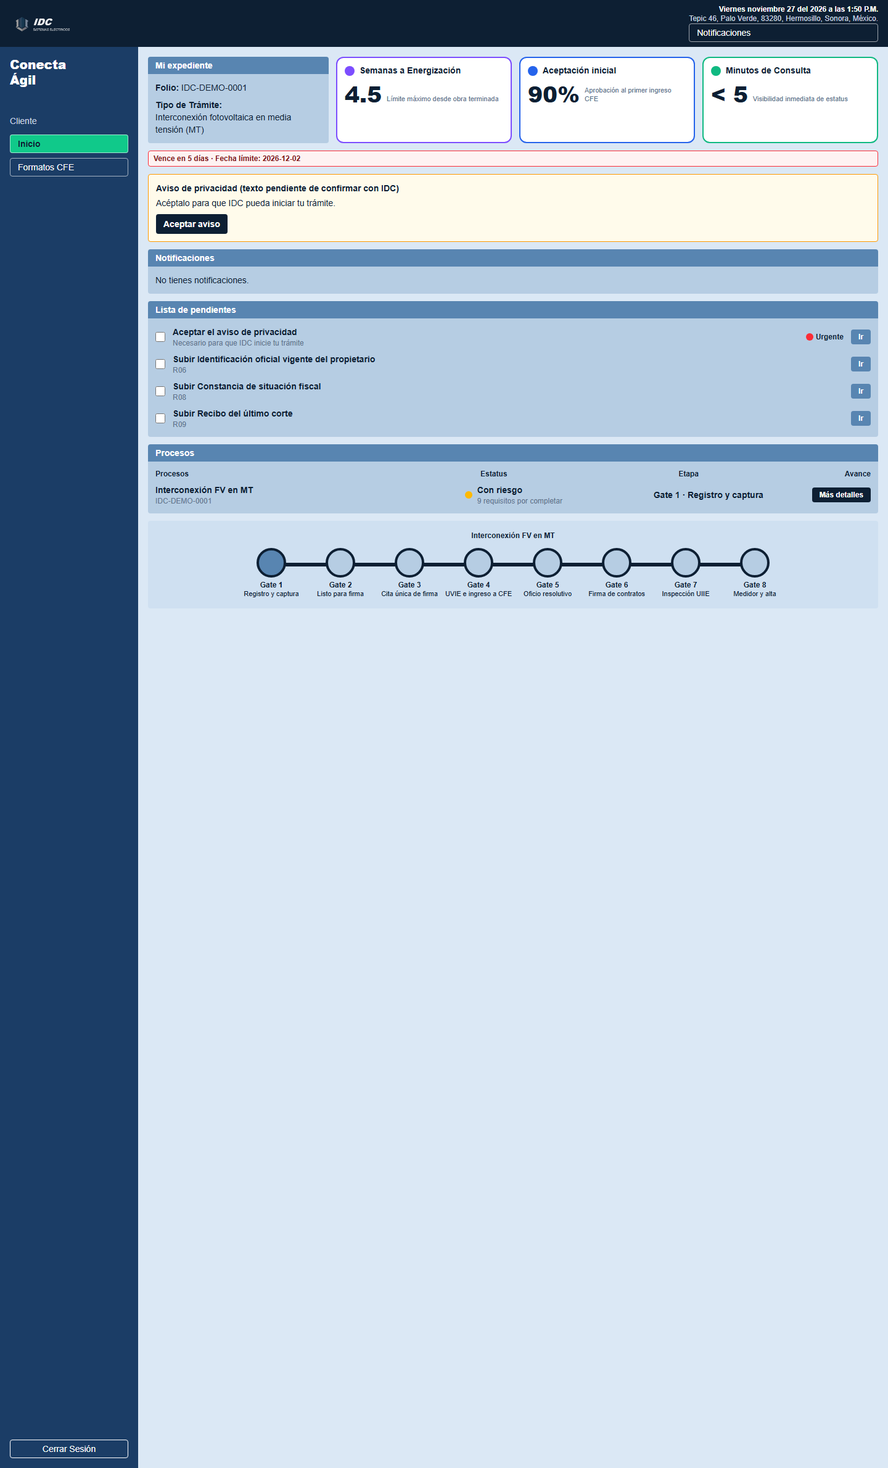
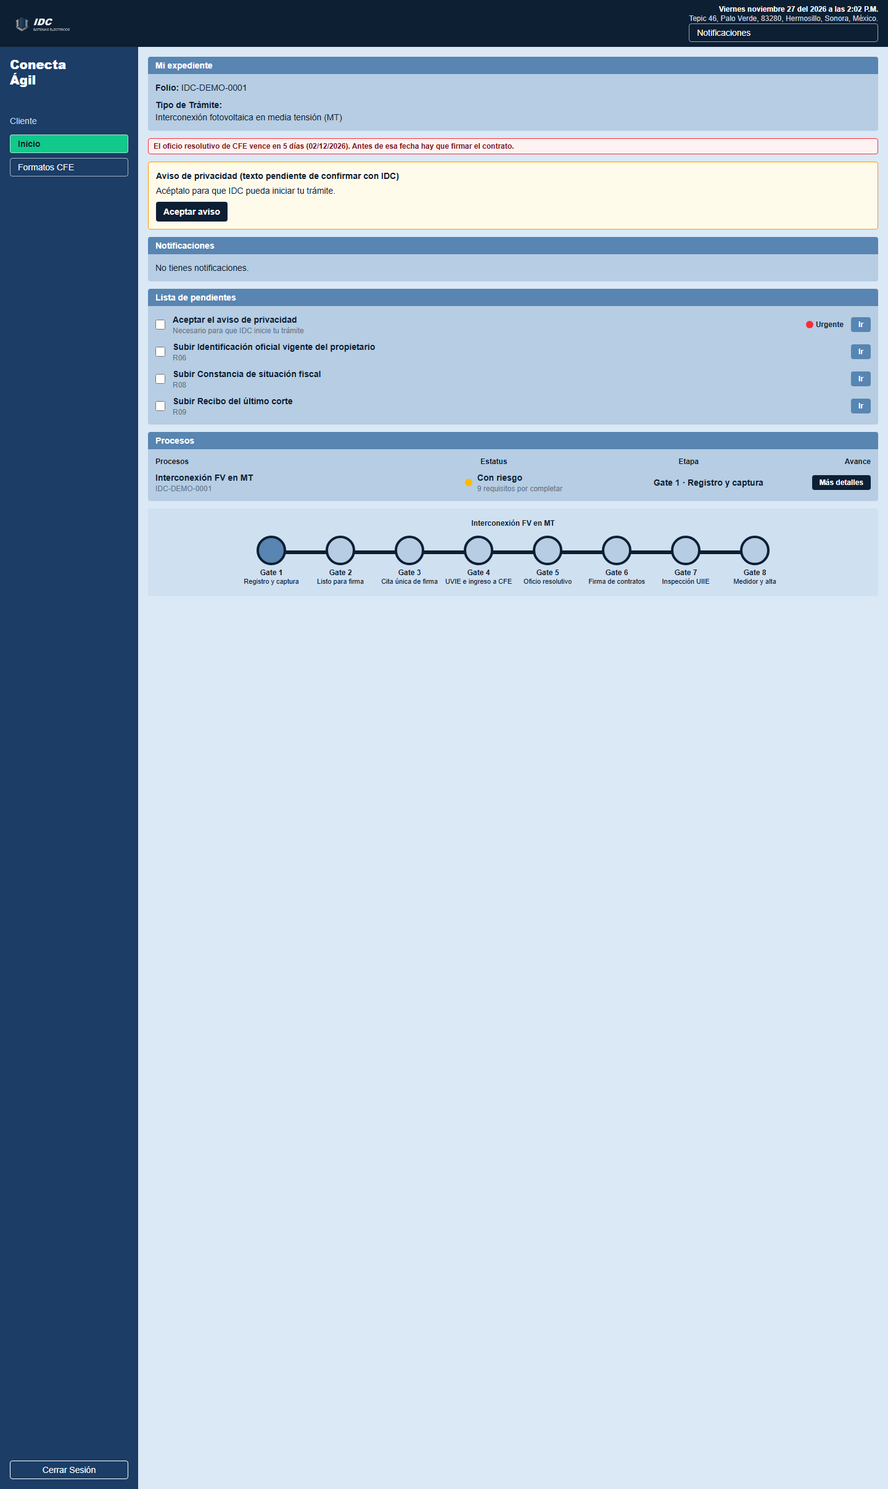
A3b: metas solo en demo, avisos con contexto y fechas dd/mm/aaaa

Changed region(s): [[0.1562, 0.0, 1.0, 0.4044], [0.0, 0.0311, 0.125, 0.1244], [0.0625, 0.9643, 0.0938, 0.9954]]

diff --git a/components/LocalGestorReview.tsx b/components/LocalGestorReview.tsx
@@ -7,6 +7,9 @@ import { encabezadoGate, gateActual } from "@/lib/semaforo";
 import RegistrarEventos from "@/components/RegistrarEventos";
 import ReprocesoCfe from "@/components/ReprocesoCfe";
 import { etiquetaGate, traducirGateMensaje } from "@/lib/gate-display";
+import { alertaVigenciaOficio } from "@/lib/vigencia-oficio";
+import AlertaVigenciaOficioBanner from "@/components/AlertaVigenciaOficio";
+import { formatoFecha } from "@/lib/fechas";
 
 type Requirement = {
   requirement_code: string;
@@ -27,7 +30,7 @@ type Gate = { gate_code: string; status: string };
 type Expediente = { id: string; folio: string; cliente_nombre: string };
 type Template = { id: string; code: string; version: number; sha256: string; active: number };
 type Format = { document_id: string; document_type: string; status: string; version_id: string; version_number: number; original_filename: string };
-type ExternalEvent = { event_type: string; document_id: string | null; description: string; resultado: string | null; vence_at: string | null; subgate_requerido: number; subgate_document_id: string | null; medio: string | null; solicitud_numero: string | null; sequence: number; requiere_nueva_firma: number };
+type ExternalEvent = { event_type: string; event_date: string; document_id: string | null; description: string; resultado: string | null; vence_at: string | null; subgate_requerido: number; subgate_document_id: string | null; medio: string | null; solicitud_numero: string | null; sequence: number; requiere_nueva_firma: number };
 type Reproceso = { fecha: string; mensaje: string; requirementCodes: string[] };
 type Aviso = { ok: boolean; text: string };
 type Firma = { fecha: string; lugar: string; solicitante: string; otorgante: string; apoderado: string; testigo1: string; testigo2: string; evidencia: File | null };
@@ -418,6 +421,7 @@ export default function LocalGestorReview({ usuarioId }: { usuarioId: string }) 
   if (!expedientes.length) return <Panel title="Revisión del expediente"><p className="text-sm">No hay expedientes para revisar.</p></Panel>;
 
   const avanceEstado = cargadoId === selId ? estadoCarga : "cargando";
+  const alertaOficio = avanceEstado === "listo" ? alertaVigenciaOficio(gates, eventos) : null;
   const statusGate = (code: string) => avanceEstado === "listo" ? gates.find((gate) => gate.gate_code === code)?.status ?? "bloqueado" : "bloqueado";
   const etapaSel = ETAPAS.find((etapa) => etapa.code === gateSel) ?? ETAPAS[0];
   const exige = EXIGE[etapaSel.code] ?? {};
@@ -463,6 +467,7 @@ export default function LocalGestorReview({ usuarioId }: { usuarioId: string }) 
           </p>
         </div>
         {avanceEstado === "error" && errorCarga && <p role="alert" className="mt-2 text-sm text-red-800">{errorCarga}</p>}
+        {alertaOficio && <AlertaVigenciaOficioBanner alerta={alertaOficio} esGestor />}
         {aviso && (
           <p role={aviso.ok ? "status" : "alert"} className={`mt-3 flex items-center gap-2 rounded px-3 py-2 text-sm font-bold ${aviso.ok ? "bg-emerald-100 text-emerald-900" : "bg-red-100 text-red-800"}`}>
             <Punto color={aviso.ok ? "#22c55e" : "#ef4444"} /> {aviso.text}
@@ -750,7 +755,7 @@ export default function LocalGestorReview({ usuarioId }: { usuarioId: string }) 
                     <div>
                       <p className="font-bold">Versiones</p>
                       {item.versions.length === 0 && <p className="text-slate-600">Sin documentos cargados.</p>}
-                      <ul>{item.versions.slice(0, 4).map((version) => <li key={version.id}>v{version.version_number} · {version.original_filename} · {new Date(version.created_at).toLocaleDateString("es-MX")}</li>)}</ul>
+                      <ul>{item.versions.slice(0, 4).map((version) => <li key={version.id}>v{version.version_number} · {version.original_filename} · {formatoFecha(version.created_at)}</li>)}</ul>
                       {item.observations.length > 0 && <p className="mt-1 font-bold">Observaciones</p>}
                       {item.observations.map((observation, index) => (
                         <p key={index} className={observation.visibility === "cliente" ? "text-red-700" : "text-slate-700"}>

diff --git a/components/ReprocesoCfe.tsx b/components/ReprocesoCfe.tsx
@@ -1,5 +1,7 @@
 "use client";
 
+import { formatoFecha } from "@/lib/fechas";
+
 type Requirement = {
   requirement_code: string;
   name: string;
@@ -43,7 +45,7 @@ export default function ReprocesoCfe({ reproceso, requirements, gestor, subir, o
   const retroalimentacion = (item: Requirement) => item.observations.find((observation) => observation.visibility === "cliente")?.body ?? "—";
   const notaInterna = (item: Requirement) => item.observations.find((observation) => observation.visibility === "interno_idc")?.body ?? "—";
   return <section className="my-3 rounded border border-amber-400 bg-amber-50 p-3 text-sm">
-    <h3 className="font-bold">{gestor ? "Reproceso CFE" : `CFE pidió correcciones el ${reproceso.fecha.slice(0, 10)}`}</h3>
+    <h3 className="font-bold">{gestor ? "Reproceso CFE" : `CFE pidió correcciones el ${formatoFecha(reproceso.fecha)}`}</h3>
     <p>{reproceso.mensaje}</p>
     <p className="my-2 font-semibold">CFE observó {items.length} documentos · {corregidos} corregidos · {revision} en revisión · {items.length - corregidos - revision} pendientes</p>
     <div className="overflow-x-auto"><table className="w-full text-left text-xs"><thead><tr><th>Documento</th><th>Semáforo</th><th>Última retroalimentación visible</th>{gestor && <th>Nota interna</th>}<th>Le toca a</th>{gestor && <th>Última actualización</th>}{!gestor && <th>Acción</th>}</tr></thead>
@@ -51,7 +53,7 @@ export default function ReprocesoCfe({ reproceso, requirements, gestor, subir, o
         <td className="p-1">{item.requirement_code} · {item.name}</td><td className="p-1">{estado(item.status)}</td>
         <td className="p-1">{item.observations.find((observation) => observation.visibility === "cliente")?.body ?? "—"}</td>
         {gestor && <td className="p-1">{item.observations.find((observation) => observation.visibility === "interno_idc")?.body ?? "—"}</td>}
-        <td className="p-1">{responsable(item)}</td>{gestor && <td className="p-1">{item.updated_at?.slice(0, 10) ?? "—"}</td>}
+        <td className="p-1">{responsable(item)}</td>{gestor && <td className="p-1">{item.updated_at ? formatoFecha(item.updated_at) : "—"}</td>}
         {!gestor && <td className="p-1">{responsable(item) === "Cliente" && !estado(item.status).startsWith("🟢") ? <label className="cursor-pointer underline">Subir<input type="file" className="sr-only" accept=".pdf,.jpg,.jpeg,.png,application/pdf,image/jpeg,image/png" disabled={ocupado} aria-label={`Subir ${item.name}`} onChange={(event) => { const file = event.target.files?.[0]; event.target.value = ""; if (file) subir?.(item, file); }} /></label> : responsable(item) === "Cliente" ? "Listo" : "Lo corrige IDC"}</td>}
       </tr>)}</tbody></table></div>
     <details data-testid="reproceso-documentos-completos" className="mt-3 rounded border border-amber-300 bg-white">
@@ -65,7 +67,7 @@ export default function ReprocesoCfe({ reproceso, requirements, gestor, subir, o
             <td className="p-1">{retroalimentacion(item)}</td>
             {gestor && <td className="p-1">{notaInterna(item)}</td>}
             <td className="p-1">{responsable(item)}</td>
-            <td className="p-1">{item.updated_at?.slice(0, 10) ?? "—"}</td>
+            <td className="p-1">{item.updated_at ? formatoFecha(item.updated_at) : "—"}</td>
           </tr>)}</tbody>
         </table>
       </div>

diff --git a/tests/e2e/regresiones-pr1.ts b/tests/e2e/regresiones-pr1.ts
@@ -2,9 +2,9 @@ import assert from "node:assert/strict";
 import { documentosDelCliente, type RequisitoCliente } from "../../lib/portal-cliente";
 import { encabezadoGate, semaforoExpediente } from "../../lib/semaforo";
 import { ETAPAS } from "../../lib/etapas";
-import { sumarMesesCalendario } from "../../lib/fechas";
+import { formatoFecha, sumarMesesCalendario } from "../../lib/fechas";
 import { etiquetaGate, traducirGateMensaje } from "../../lib/gate-display";
-import { alertaVigenciaOficio, diasHastaFecha, nivelAlertaOficio } from "../../lib/vigencia-oficio";
+import { alertaVigenciaOficio, diasHastaFecha, nivelAlertaOficio, textoAlertaVigenciaOficio } from "../../lib/vigencia-oficio";
 
 const gates = [{ gate_code: "G1", status: "cerrado" }, { gate_code: "G3", status: "cerrado" }, { gate_code: "G6", status: "abierto" }];
 const requisito = (status: string): RequisitoCliente => ({
@@ -45,6 +45,8 @@ assert.equal(encabezadoGate(avance(8), "listo"), "Expediente cerrado");
 assert.equal(sumarMesesCalendario("2026-01-31T12:30:00.000Z", 1).toISOString(), "2026-02-28T12:30:00.000Z");
 assert.equal(sumarMesesCalendario("2024-01-31T00:00:00.000Z", 1).toISOString(), "2024-02-29T00:00:00.000Z");
 assert.equal(sumarMesesCalendario("2024-02-29T00:00:00.000Z", 12).toISOString(), "2025-02-28T00:00:00.000Z");
+assert.equal(formatoFecha("2026-12-02T00:00:00.000Z"), "02/12/2026");
+assert.equal(formatoFecha("2024-02-29"), "29/02/2024");
 
 assert.equal(etiquetaGate("G3"), "Gate 4 · UVIE e ingreso a CFE");
 assert.equal(traducirGateMensaje("G3 requiere un acuse antes de G4."), "Gate 4 · UVIE e ingreso a CFE requiere un acuse antes de Gate 5 · Oficio resolutivo.");
@@ -58,6 +60,10 @@ const eventoOficio = [{ event_type: "resolucion_cfe", resultado: "favorable", ve
 assert.deepEqual(alertaVigenciaOficio([{ gate_code: "G5", status: "abierto" }], eventoOficio, hoy), {
   venceAt: "2026-12-02T00:00:00.000Z", diasRestantes: 5, nivel: "roja",
 });
+assert.equal(textoAlertaVigenciaOficio({ venceAt: "2026-12-02T00:00:00.000Z", diasRestantes: 5, nivel: "roja" }), "El oficio resolutivo de CFE vence en 5 días (02/12/2026). Antes de esa fecha hay que firmar el contrato.");
+assert.equal(textoAlertaVigenciaOficio({ venceAt: "2026-12-02T00:00:00.000Z", diasRestantes: 5, nivel: "roja" }, true), "Oficio CFE vence en 5 días · 02/12/2026");
+assert.equal(textoAlertaVigenciaOficio({ venceAt: "2026-11-25T00:00:00.000Z", diasRestantes: -2, nivel: "roja" }), "El oficio resolutivo de CFE venció hace 2 días (25/11/2026). Tu Gestor IDC te indicará los siguientes pasos.");
+assert.equal(textoAlertaVigenciaOficio({ venceAt: "2026-11-25T00:00:00.000Z", diasRestantes: -2, nivel: "roja" }, true), "Oficio CFE vencido hace 2 días · 25/11/2026");
 assert.equal(alertaVigenciaOficio([{ gate_code: "G5", status: "cerrado" }], eventoOficio, hoy), null);
 assert.equal(alertaVigenciaOficio([{ gate_code: "G5", status: "abierto" }], [{ ...eventoOficio[0], resultado: "no_favorable" }], hoy), null);
 

diff --git a/app/portal/PortalClient.tsx b/app/portal/PortalClient.tsx
@@ -15,6 +15,7 @@ type Props = {
   notificaciones?: Aviso[];
   pendientes?: Aviso[];
   procesos?: Proceso[];
+  modoDemo?: boolean;
   // Contenido extra bajo el encabezado (por ejemplo, el aviso de privacidad en modo local).
   extra?: ReactNode;
 };
@@ -25,6 +26,7 @@ export default function PortalInicio({
   notificaciones = notificacionesDemo,
   pendientes = pendientesDemo,
   procesos = procesosDemo,
+  modoDemo = true,
   extra,
 }: Props) {
   const router = useRouter();
@@ -36,27 +38,32 @@ export default function PortalInicio({
   return (
     <>
       {/* Expediente + indicadores */}
-      <div className="grid gap-3 lg:grid-cols-[minmax(220px,1fr)_3fr]">
+      <div className={modoDemo ? "grid gap-3 lg:grid-cols-[minmax(220px,1fr)_3fr]" : "grid gap-3"}>
         <Panel title="Mi expediente">
           <p className="text-sm"><b>Folio:</b> {folio}</p>
           <p className="mt-2 text-sm"><b>Tipo de Trámite:</b></p>
           <p className="text-sm">{tramite}</p>
         </Panel>
 
-        <div className="grid gap-3 sm:grid-cols-3">
-          {expedienteDemo.kpis.map((k) => (
-            <div key={k.titulo} className="rounded-xl border-2 bg-white p-3 text-[#0d1f33]" style={{ borderColor: k.color }}>
-              <div className="flex items-center gap-2">
-                <span className="h-4 w-4 rounded-full" style={{ background: k.color }} aria-hidden />
-                <p className="text-sm font-bold leading-tight">{k.titulo}</p>
-              </div>
-              <div className="mt-2 flex items-end gap-2">
-                <span className="text-4xl font-extrabold">{k.valor}</span>
-                <span className="pb-1 text-[11px] leading-tight text-slate-500">{k.nota}</span>
-              </div>
+        {modoDemo && (
+          <div className="space-y-2">
+            <h2 className="text-sm font-bold">Metas del proyecto</h2>
+            <div className="grid gap-3 sm:grid-cols-3">
+              {expedienteDemo.kpis.map((k) => (
+                <div key={k.titulo} className="rounded-xl border-2 bg-white p-3 text-[#0d1f33]" style={{ borderColor: k.color }}>
+                  <div className="flex items-center gap-2">
+                    <span className="h-4 w-4 rounded-full" style={{ background: k.color }} aria-hidden />
+                    <p className="text-sm font-bold leading-tight">{k.titulo}</p>
+                  </div>
+                  <div className="mt-2 flex items-end gap-2">
+                    <span className="text-4xl font-extrabold">Meta: {k.valor}</span>
+                    <span className="pb-1 text-[11px] leading-tight text-slate-500">{k.nota}</span>
+                  </div>
+                </div>
+              ))}
             </div>
-          ))}
-        </div>
+          </div>
+        )}
       </div>
 
       {extra}

diff --git a/components/RegistrarEventos.tsx b/components/RegistrarEventos.tsx
@@ -2,7 +2,7 @@
 
 import { useState } from "react";
 import { etiquetaGate, traducirGateMensaje } from "@/lib/gate-display";
-import { sumarMesesCalendario } from "@/lib/fechas";
+import { formatoFecha, sumarMesesCalendario } from "@/lib/fechas";
 
 type Requirement = { requirement_code: string; name: string; status: string; version_id: string | null };
 type Evento = {
@@ -64,7 +64,7 @@ function Formulario({ tipo, expedienteId, ocupado, setOcupado, notificar, refres
   const [solicitud, setSolicitud] = useState("");
   const [resultado, setResultado] = useState("favorable");
   const [subgate, setSubgate] = useState<File | null>(null);
-  const limite = fecha ? sumarMesesCalendario(`${fecha}T00:00:00.000Z`, 2).toISOString().slice(0, 10) : "";
+  const limite = fecha ? formatoFecha(sumarMesesCalendario(`${fecha}T00:00:00.000Z`, 2)) : "";
 
   async function registrar() {
     if (!archivo) return;
@@ -170,7 +170,7 @@ export default function RegistrarEventos(props: Props) {
         const registrado = tipo === "ingreso_acuse" ? eventos.filter((item) => item.event_type === tipo && item.sequence > Math.max(0, ...eventos.filter((event) => event.event_type === "cfe_incompleto").map((event) => event.sequence))).sort((a, b) => b.sequence - a.sequence)[0] : ultimo(eventos, tipo);
         return <div key={tipo} className="space-y-1">
           {registrado?.document_id && <p className="text-xs">✓ {LABELS[tipo]} registrado · <a className="underline" href={`/api/documents/${registrado.document_id}`}>Ver PDF</a></p>}
-          {tipo === "resolucion_cfe" && registrado && <div className="text-xs">Resultado: {registrado.resultado ?? "sin registrar"} · Fecha límite: {registrado.vence_at?.slice(0, 10) ?? "sin registrar"}{registrado.subgate_document_id && <> · <a className="underline" href={`/api/documents/${registrado.subgate_document_id}`}>Ver subgate</a></>}</div>}
+          {tipo === "resolucion_cfe" && registrado && <div className="text-xs">Resultado: {registrado.resultado ?? "sin registrar"} · Fecha límite: {registrado.vence_at ? formatoFecha(registrado.vence_at) : "sin registrar"}{registrado.subgate_document_id && <> · <a className="underline" href={`/api/documents/${registrado.subgate_document_id}`}>Ver subgate</a></>}</div>}
           {abierto && (!registrado || (tipo === "resolucion_cfe" && otroOficio)) && <Formulario key={`${expedienteId}-${tipo}`} tipo={tipo} expedienteId={expedienteId} ocupado={ocupado} setOcupado={setOcupado} notificar={notificar} refrescar={refrescar} alTerminar={() => setOtroOficio(false)} />}
           {abierto && tipo === "resolucion_cfe" && registrado && !otroOficio && <button type="button" onClick={() => setOtroOficio(true)} className="text-xs underline">Registrar otro oficio</button>}
         </div>;

diff --git a/app/portal/LocalPortal.tsx b/app/portal/LocalPortal.tsx
@@ -8,6 +8,7 @@ import { Panel } from "@/components/ui";
 import { alertaVigenciaOficio } from "@/lib/vigencia-oficio";
 import AlertaVigenciaOficioBanner from "@/components/AlertaVigenciaOficio";
 import { traducirGateMensaje } from "@/lib/gate-display";
+import { formatoFecha } from "@/lib/fechas";
 
 type Props = {
   expediente: {
@@ -42,7 +43,7 @@ export default function LocalPortal({ expediente, review }: Props) {
       urgente: true,
       href: "/portal/formatos",
     }));
-  if (expediente.reproceso_cfe) notificaciones.unshift({ id: "cfe-reproceso", titulo: `CFE pidió correcciones el ${expediente.reproceso_cfe.fecha.slice(0, 10)}`, archivo: expediente.reproceso_cfe.mensaje, urgente: true, href: "/portal/formatos" });
+  if (expediente.reproceso_cfe) notificaciones.unshift({ id: "cfe-reproceso", titulo: `CFE pidió correcciones el ${formatoFecha(expediente.reproceso_cfe.fecha)}`, archivo: expediente.reproceso_cfe.mensaje, urgente: true, href: "/portal/formatos" });
   const pendientes: Aviso[] = [
     ...(!expediente.privacy_accepted_at ? [{ id: "aviso", titulo: "Aceptar el aviso de privacidad", archivo: "Necesario para que IDC inicie tu trámite", urgente: true }] : []),
     ...review
@@ -75,6 +76,7 @@ export default function LocalPortal({ expediente, review }: Props) {
       notificaciones={notificaciones}
       pendientes={pendientes}
       procesos={[{ id: "fv", nombre: "Interconexión FV en MT", archivo: expediente.folio, estatus: semaforo.estatus, detalle: semaforo.detalle, gate: gateActual(expediente.gates) }]}
+      modoDemo={false}
       extra={extra}
     />
   );

diff --git a/lib/vigencia-oficio.ts b/lib/vigencia-oficio.ts
@@ -1,3 +1,5 @@
+import { formatoFecha } from "./fechas";
+
 type Gate = { gate_code: string; status: string };
 type EventoOficio = { event_type: string; event_date?: string; sequence?: number; resultado: string | null; vence_at: string | null };
 
@@ -17,6 +19,18 @@ export function diasHastaFecha(fecha: string, hoy = new Date()): number {
 
 export function nivelAlertaOficio(diasRestantes: number): AlertaVigenciaOficio["nivel"] {
   return diasRestantes <= 10 ? "roja" : "informativa";
+}
+
+export function textoAlertaVigenciaOficio(alerta: AlertaVigenciaOficio, esGestor = false): string {
+  const fecha = formatoFecha(alerta.venceAt);
+  if (esGestor) {
+    return alerta.diasRestantes < 0
+      ? `Oficio CFE vencido hace ${Math.abs(alerta.diasRestantes)} días · ${fecha}`
+      : `Oficio CFE vence en ${alerta.diasRestantes} días · ${fecha}`;
+  }
+  return alerta.diasRestantes < 0
+    ? `El oficio resolutivo de CFE venció hace ${Math.abs(alerta.diasRestantes)} días (${fecha}). Tu Gestor IDC te indicará los siguientes pasos.`
+    : `El oficio resolutivo de CFE vence en ${alerta.diasRestantes} días (${fecha}). Antes de esa fecha hay que firmar el contrato.`;
 }
 
 export function alertaVigenciaOficio(gates: Gate[], eventos: EventoOficio[], hoy = new Date()): AlertaVigenciaOficio | null {

diff --git a/components/AlertaVigenciaOficio.tsx b/components/AlertaVigenciaOficio.tsx
@@ -1,19 +1,14 @@
-import type { AlertaVigenciaOficio as Alerta } from "@/lib/vigencia-oficio";
+import { textoAlertaVigenciaOficio, type AlertaVigenciaOficio as Alerta } from "@/lib/vigencia-oficio";
 
-export default function AlertaVigenciaOficio({ alerta }: { alerta: Alerta }) {
-  const fecha = new Date(alerta.venceAt).toISOString().slice(0, 10);
-  const texto = alerta.diasRestantes < 0
-    ? `Vencido hace ${Math.abs(alerta.diasRestantes)} días`
-    : alerta.diasRestantes <= 10
-      ? `Vence en ${alerta.diasRestantes} días`
-      : `El oficio vence el ${fecha}; quedan ${alerta.diasRestantes} días.`;
+export default function AlertaVigenciaOficio({ alerta, esGestor = false }: { alerta: Alerta; esGestor?: boolean }) {
+  const texto = textoAlertaVigenciaOficio(alerta, esGestor);
 
   return (
     <p
       role={alerta.nivel === "roja" ? "alert" : "status"}
       className={`mt-2 rounded border px-2 py-1 text-xs font-bold ${alerta.nivel === "roja" ? "border-red-500 bg-red-50 text-red-900" : "border-sky-400 bg-sky-50 text-sky-900"}`}
     >
-      {texto} · Fecha límite: {fecha}
+      {texto}
     </p>
   );
 }

diff --git a/components/GestorInicio.tsx b/components/GestorInicio.tsx
@@ -150,7 +150,7 @@ export default function GestorInicio({ proyectos, pendientes, datosReales = fals
               {lista.map((p) => (
                 <tr key={p.folio} className="border-t border-[#8fb0d1]">
                   <td className="py-2 pr-3 font-bold">{p.folio}</td>
-                  <td className="pr-3"><span className="block font-bold">{p.proyecto}</span><span className="block text-xs text-slate-600">{p.cliente}</span>{p.alertaVigencia && <AlertaVigenciaOficioBanner alerta={p.alertaVigencia} />}</td>
+                  <td className="pr-3"><span className="block font-bold">{p.proyecto}</span><span className="block text-xs text-slate-600">{p.cliente}</span>{p.alertaVigencia && <AlertaVigenciaOficioBanner alerta={p.alertaVigencia} esGestor />}</td>
                   <td className="pr-3">{p.tramite}</td>
                   <td className="pr-3"><span className="flex items-center gap-2 font-bold"><Dot tipo={p.estatus} />{ESTATUS_LABEL[p.estatus]}</span></td>
                   <td className="font-bold">Gate {p.gate} · {ETAPAS[p.gate - 1]?.nombre ?? "Etapa"}</td>

diff --git a/lib/fechas.ts b/lib/fechas.ts
@@ -11,3 +11,14 @@ export function sumarMesesCalendario(fecha: string | Date, meses: number): Date 
   destino.setUTCDate(Math.min(dia, ultimoDia));
   return destino;
 }
+
+export function formatoFecha(fecha: string | Date): string {
+  const date = fecha instanceof Date ? fecha : new Date(fecha);
+  if (!Number.isFinite(date.getTime())) throw new RangeError("La fecha no es válida.");
+  return new Intl.DateTimeFormat("es-MX", {
+    day: "2-digit",
+    month: "2-digit",
+    year: "numeric",
+    timeZone: "UTC",
+  }).format(date);
+}

diff --git a/docs/reportes/PASO_A3.md b/docs/reportes/PASO_A3.md
@@ -1,6 +1,6 @@
 # Paso A3 · vigencia, alertas e indicadores
 
-Rama `paso-a3`, creada desde `desarrollo` en `ccf4570`. A3 sigue en revisión; no se ha hecho push ni merge. Commits de código:
+Rama `paso-a3`, creada desde `desarrollo` en `ccf4570`. El supervisor aprobó A3. Los commits iniciales de A3 fueron:
 
 | Commit | Bloque |
 |---|---|
@@ -37,8 +37,34 @@ Las capturas se generaron en Edge headless contra el build local y una base temp
 - [Banner del cliente](img/a3-banner-cliente.png)
 - [Indicadores del Gestor IDC](img/a3-indicadores.png)
 
-## Servidor y estado
+## Servidor tras la validación original de A3
 
 Se detuvo solo el proceso anterior de `:3140`, se compiló con `APP_MODE=local` y `NEXT_PUBLIC_MODO=local`, y se aplicó `npm run db:migrate` sin seed. `npm run start:local` quedó activo y `http://localhost:3140/api/health` respondió HTTP 200 con `schemaVersion=8`.
 
-A3 queda en 🟡 en `paso-a3`, pendiente de revisión del supervisor. No se modificó `main`; no se hizo push ni merge.
+A3 fue aprobado por el supervisor. El estado final de integración de A3b se mantiene en `00_LEEME_PRIMERO/ESTADO_ACTUAL.md`.
+
+## A3b · metas solo en demo, avisos con contexto y fechas locales
+
+- En el portal local se ocultaron las metas ilustrativas del anteproyecto. En demo se conservan bajo “Metas del proyecto” y cada cifra se identifica como “Meta: …”. La otra vista que usa esos datos, el Gestor IDC, ya limita sus metas y tendencias a demo; en modo local calcula indicadores desde la base.
+- Los avisos del cliente explican que debe firmarse el contrato antes del vencimiento y qué hacer cuando el oficio ya venció. En el Gestor, la tabla de proyectos y la revisión muestran “Oficio CFE” con días y fecha límite.
+- Se agregó `formatoFecha` para fechas visibles en formato `dd/mm/aaaa` (`es-MX`), usando UTC para evitar cambios de día por zona horaria. Se aplica a alertas, G4, reproceso y fechas de revisión; el almacenamiento no cambió.
+- `supervisor-a3.mjs` ahora imprime el resumen reconocido por `isolated.mjs` y falla el proceso ante cualquier ❌.
+
+### Verificación A3b
+
+Regla 2 ejecutada en la copia aislada `C:\a3bv` después de `npm ci`, con modo local y datos ficticios.
+
+| Verificación | Resultado |
+|---|---|
+| `npm run lint` | ✅ |
+| `npx --no-install tsc --noEmit` | ✅ |
+| `npm run plantillas:check` | ✅ 5 plantillas DOCX y F-01 PDF |
+| `npm run build` | ✅ |
+| `npm run test:e2e:isolated` | ✅ 18 entradas; 626 comprobaciones reportadas, 0 fallos |
+| `regresiones-pr1` | ✅ Fechas `dd/mm/aaaa` y textos de vencimiento/expiración para cliente y Gestor |
+| `supervisor-a3` | ✅ 12 / 0; portal local sin “90%” ni “4.5”, alertas con contexto/fecha y Gate 6 |
+| Capturas aisladas | ✅ Cliente sin metas y Gestor con la alerta tanto en tabla como en revisión |
+
+Las capturas actualizadas usan solo expedientes ficticios: [Gestor IDC](img/a3-banner-gestor.png) y [portal del cliente](img/a3-banner-cliente.png). `npm ci` informó 7 vulnerabilidades moderadas del árbol de dependencias; no se modificaron dependencias ni se aplicó `npm audit fix`.
+
+El commit A3b usa el mensaje `A3b: metas solo en demo, avisos con contexto y fechas dd/mm/aaaa`. No se desplegó a Vercel.
